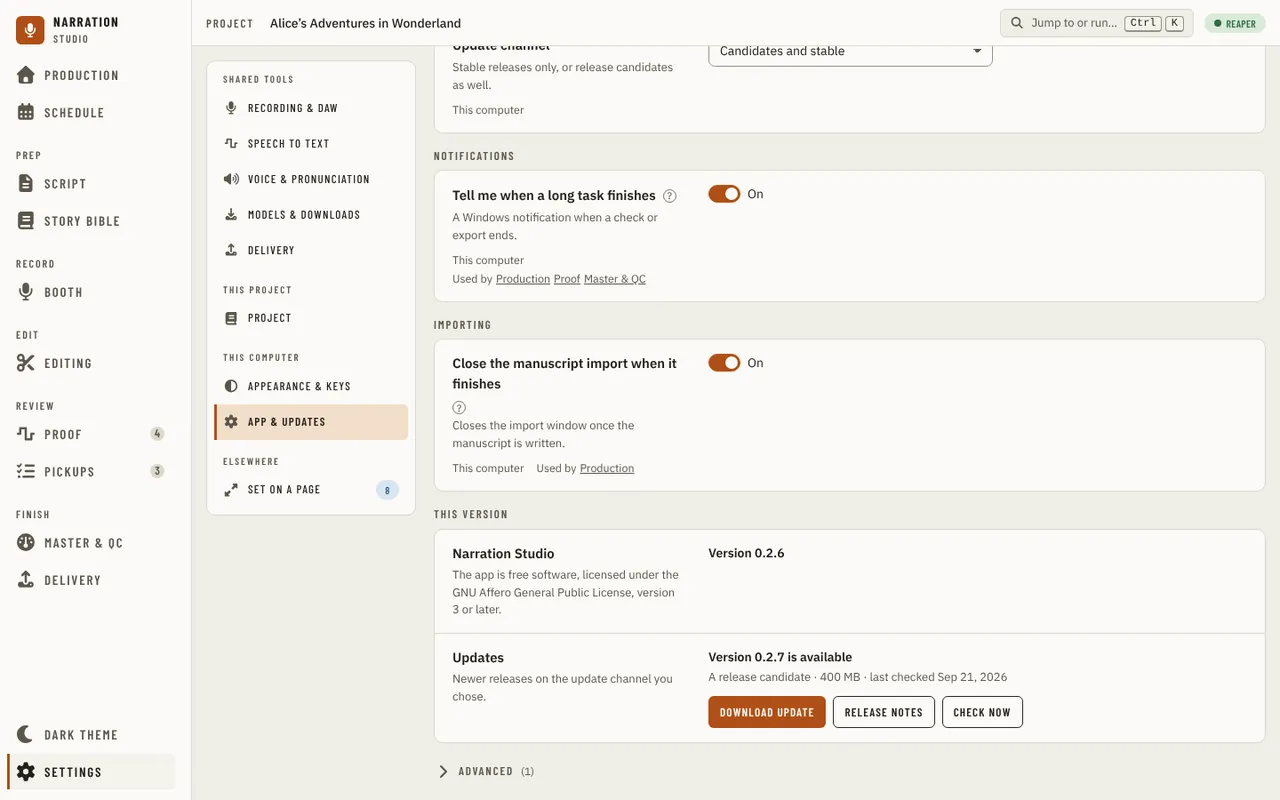
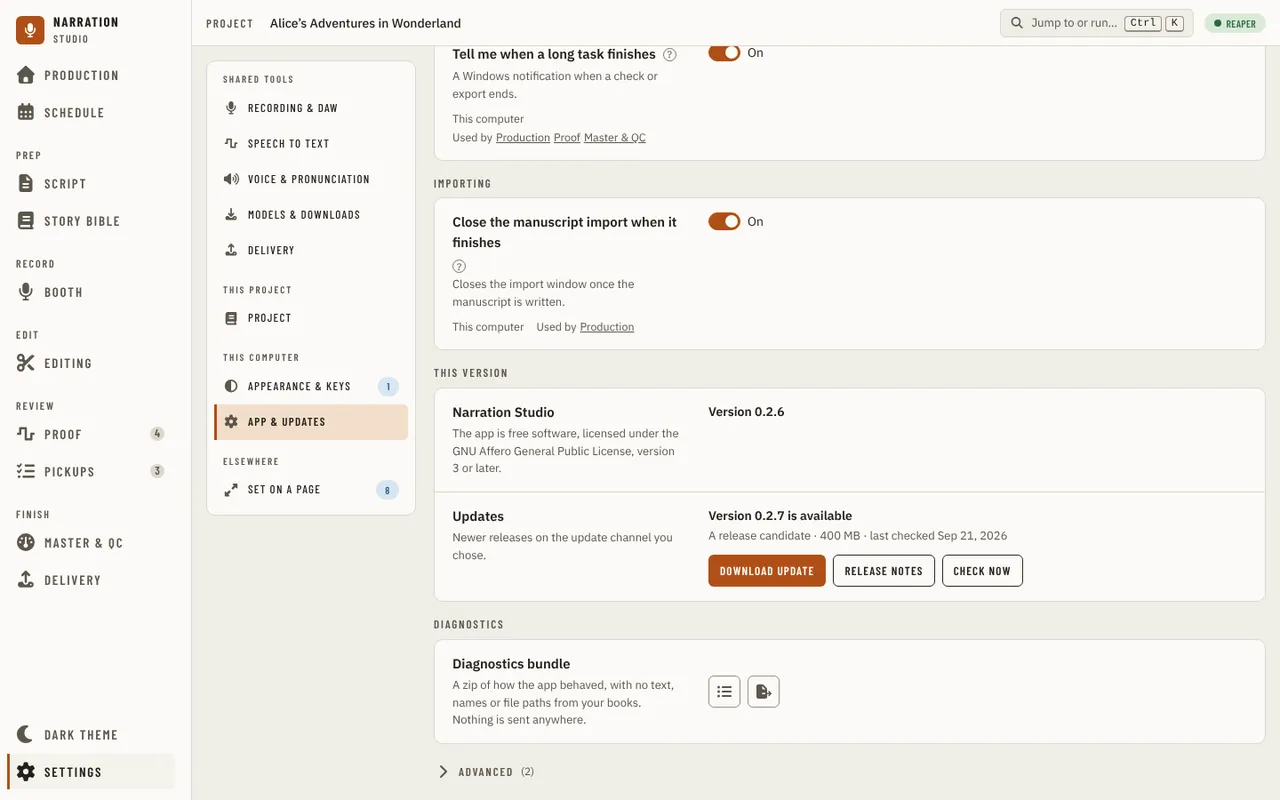
feat(ui): diagnostics bundle preview and save in settings (Refs #1827)
Claude-Session: https://claude.ai/code/session_01EBTykh56yy7MkSx2gnGY1F

diff --git a/src/studio/ui/src/components/settings/controls/DiagnosticsSection.tsx b/src/studio/ui/src/components/settings/controls/DiagnosticsSection.tsx
@@ -1,0 +1,124 @@
+import { useState } from 'react';
+import { useApi } from '../../../api/ApiContext';
+import { apiErrorMessage } from '../../../api/errorMessage';
+import type { DiagnosticsPreview } from '../../../api/contracts/system';
+import { useOverlay } from '../../../overlay/OverlayProvider';
+import { Dialog } from '../../primitives/Dialog';
+import { IconButton } from '../../primitives/IconButton';
+import { Panel } from '../../primitives/Panel';
+import { SectionLabel } from '../../primitives/SectionLabel';
+
+// The settings row's two columns (row/SettingRowView.tsx), as AboutSection's rows use.
+const ROW =
+  'grid gap-x-8 gap-y-1.5 border-t border-[var(--border)] px-5 py-4 first:border-t-0 @min-[761px]:grid-cols-[12rem_minmax(0,1fr)] @min-[860px]:grid-cols-[minmax(12rem,16rem)_minmax(0,1fr)]';
+
+const kilobytes = (bytes: number): string => `${Math.max(1, Math.round(bytes / 1024))} KB`;
+
+/**
+ * Diagnostics under App & updates: look at what a diagnostics bundle would hold, then save it as a zip in a folder the narrator picks. The
+ * path is copied to the clipboard. Nothing is sent anywhere; the narrator attaches the file to an issue by hand. The preview is a
+ * dialog, so a long list of files never moves the page.
+ */
+export function DiagnosticsSection() {
+  const api = useApi();
+  const overlay = useOverlay();
+  const [preview, setPreview] = useState<DiagnosticsPreview>();
+  const [busy, setBusy] = useState<'preview' | 'save' | ''>('');
+
+  const showPreview = async () => {
+    setBusy('preview');
+    try {
+      setPreview(await api.systemDiagnosticsPreview());
+    } catch (failure) {
+      overlay.toast(apiErrorMessage(failure), { tone: 'error' });
+    } finally {
+      setBusy('');
+    }
+  };
+
+  const save = async () => {
+    setBusy('save');
+    try {
+      const { path } = await api.systemSaveDiagnostics();
+      if (!path) return; // the narrator closed the folder picker
+      let copied = false;
+      try {
+        await navigator.clipboard.writeText(path);
+        copied = true;
+      } catch {
+        // The clipboard may be unavailable; the toast still says where the file is.
+      }
+      overlay.toast(copied ? `Saved to ${path}. The path is copied.` : `Saved to ${path}.`);
+    } catch (failure) {
+      overlay.toast(apiErrorMessage(failure), { tone: 'error' });
+    } finally {
+      setBusy('');
+    }
+  };
+
+  return (
+    <section aria-label="Diagnostics" className="flex flex-col">
+      <SectionLabel as="h3" className="mb-1.5">
+        Diagnostics
+      </SectionLabel>
+      <Panel flush>
+        <div className={ROW} data-about="diagnostics">
+          <div className="flex min-w-0 flex-col gap-[3px]">
+            <b className="text-[0.9375rem] font-semibold">Diagnostics bundle</b>
+            <span className="max-w-[60ch] text-[0.8125rem] text-[var(--text-muted)]">
+              A zip of how the app behaved, with no text, names or file paths from your books. Nothing is sent anywhere.
+            </span>
+          </div>
+          <div className="flex items-center gap-2">
+            <IconButton action="list" label="Preview the diagnostics bundle" pending={busy === 'preview'} onClick={() => void showPreview()} />
+            <IconButton action="export" label="Save the diagnostics bundle" pending={busy === 'save'} onClick={() => void save()} />
+          </div>
+        </div>
+      </Panel>
+      {preview && (
+        <Dialog
+          title="Diagnostics bundle"
+          size="wide"
+          dismissOnOutsidePress
+          onClose={() => setPreview(undefined)}
+          actions={<IconButton action="export" label="Save the diagnostics bundle" pending={busy === 'save'} onClick={() => void save()} />}
+        >
+          <div className="flex max-h-[60dvh] flex-col gap-4 overflow-y-auto text-[0.875rem]">
+            <section aria-label="Included" className="flex flex-col gap-1.5">
+              <SectionLabel as="p">Included</SectionLabel>
+              {preview.files.length === 0 ? (
+                <p className="m-0 text-[var(--text-muted)]">Nothing has been recorded yet.</p>
+              ) : (
+                <ul className="m-0 flex list-none flex-col gap-1 p-0">
+                  {preview.files.map((file) => (
+                    <li key={file.name} className="flex flex-wrap justify-between gap-x-4">
+                      <span>
+                        <b className="font-semibold">{file.name}</b> <span className="text-[var(--text-muted)]">{file.source}</span>
+                      </span>
+                      <span className="text-[var(--text-muted)]">
+                        {file.lines} lines, {kilobytes(file.bytes)}
+                      </span>
+                    </li>
+                  ))}
+                </ul>
+              )}
+            </section>
+            <section aria-label="Left out" className="flex flex-col gap-1.5">
+              <SectionLabel as="p">Left out</SectionLabel>
+              <ul className="m-0 flex list-none flex-col gap-1 p-0">
+                {preview.excluded.map((item) => (
+                  <li key={item.name}>
+                    <b className="font-semibold">{item.name}</b> <span className="text-[var(--text-muted)]">{item.reason}</span>
+                  </li>
+                ))}
+              </ul>
+            </section>
+            <p className="m-0 text-[var(--text-muted)]">
+              Leak check: {preview.leakCheck.linesDropped} {preview.leakCheck.linesDropped === 1 ? 'line' : 'lines'} dropped for naming you or your project.
+            </p>
+          </div>
+        </Dialog>
+      )}
+    </section>
+  );
+}

diff --git a/src/studio/ui/src/components/settings/controls/DiagnosticsSection.test.tsx b/src/studio/ui/src/components/settings/controls/DiagnosticsSection.test.tsx
@@ -1,0 +1,83 @@
+// @vitest-environment jsdom
+import { cleanup, fireEvent, render, screen, waitFor } from '@testing-library/react';
+import { afterEach, describe, expect, it, vi } from 'vitest';
+import { ApiProvider } from '../../../api/ApiContext';
+import { createMockApi } from '../../../api/mockApi';
+import { OverlayProvider } from '../../../overlay/OverlayProvider';
+import { createOverlayService } from '../../../overlay/overlayService';
+import type { NarrationApi } from '../../../types';
+import { DiagnosticsSection } from './DiagnosticsSection';
+
+afterEach(cleanup);
+
+function renderSection(overrides: Partial<NarrationApi> = {}) {
+  const service = createOverlayService();
+  const toast = vi.spyOn(service, 'toast');
+  render(
+    <ApiProvider api={createMockApi(overrides)}>
+      <OverlayProvider service={service}>
+        <DiagnosticsSection />
+      </OverlayProvider>
+    </ApiProvider>,
+  );
+  return toast;
+}
+
+describe('DiagnosticsSection', () => {
+  it('previews what the bundle holds and what it leaves out, and writes nothing', async () => {
+    const save = vi.fn(async () => ({ path: '' }));
+    renderSection({ systemSaveDiagnostics: save });
+    fireEvent.click(screen.getByRole('button', { name: 'Preview the diagnostics bundle' }));
+    const dialog = await screen.findByRole('dialog', { name: 'Diagnostics bundle' });
+    expect(dialog.textContent).toContain('trace.jsonl');
+    expect(dialog.textContent).toContain('sidecar stderr');
+    expect(dialog.textContent).toMatch(/0 lines dropped/);
+    expect(save).not.toHaveBeenCalled();
+  });
+
+  it('says what an empty bundle means when nothing was recorded', async () => {
+    renderSection({
+      systemDiagnosticsPreview: async () => ({
+        format: 1,
+        createdAt: '2026-09-26T12:00:00Z',
+        appVersion: '0.0.0-dev',
+        redactionVersion: 1,
+        traceEnabled: false,
+        files: [],
+        excluded: [],
+        leakCheck: { terms: 0, linesDropped: 1 },
+        note: '',
+      }),
+    });
+    fireEvent.click(screen.getByRole('button', { name: 'Preview the diagnostics bundle' }));
+    const dialog = await screen.findByRole('dialog', { name: 'Diagnostics bundle' });
+    expect(dialog.textContent).toContain('Nothing has been recorded yet.');
+    expect(dialog.textContent).toMatch(/1 line dropped/);
+  });
+
+  it('saves, copies the path and says where the file is', async () => {
+    const writeText = vi.fn(async () => undefined);
+    Object.defineProperty(navigator, 'clipboard', { value: { writeText }, configurable: true });
+    const toast = renderSection();
+    fireEvent.click(screen.getByRole('button', { name: 'Save the diagnostics bundle' }));
+    await waitFor(() => expect(writeText).toHaveBeenCalledWith('C:/Users/narrator/Documents/diagnostics-20260926T120000.zip'));
+    expect(toast).toHaveBeenCalledWith(expect.stringContaining('The path is copied'));
+  });
+
+  it('does nothing when the folder picker is closed', async () => {
+    const toast = renderSection({ systemSaveDiagnostics: async () => ({ path: '' }) });
+    fireEvent.click(screen.getByRole('button', { name: 'Save the diagnostics bundle' }));
+    await waitFor(() => expect(screen.getByRole('button', { name: 'Save the diagnostics bundle' }).getAttribute('aria-busy')).not.toBe('true'));
+    expect(toast).not.toHaveBeenCalled();
+  });
+
+  it('shows a failed save as an error toast', async () => {
+    const toast = renderSection({
+      systemSaveDiagnostics: async () => {
+        throw new Error('disk full');
+      },
+    });
+    fireEvent.click(screen.getByRole('button', { name: 'Save the diagnostics bundle' }));
+    await waitFor(() => expect(toast).toHaveBeenCalledWith(expect.stringContaining('disk full'), { tone: 'error' }));
+  });
+});

diff --git a/src/studio/ui/src/components/settings/page/SettingsPage.tsx b/src/studio/ui/src/components/settings/page/SettingsPage.tsx
@@ -16,6 +16,7 @@ import { SettingsStoreProvider, useSettingsStore } from '../data/SettingsStore';
 import { isAnyChanged, isBrowserChanged, overrideValue } from '../data/values';
 import { AssetsStoreProvider } from '../models/AssetsStore';
 import { AboutSection } from '../controls/AboutSection';
+import { DiagnosticsSection } from '../controls/DiagnosticsSection';
 import { CATEGORIES, categoryLabel } from '../registry/categories';
 import { PAGE_SETTINGS } from '../registry/pageSettings';
 import { ROWS } from '../registry/rows';
@@ -251,7 +252,14 @@ function Body({ initialCategory, cameFrom }: { initialCategory?: string; cameFro
             onToggleAdvanced={() => setAdvanced((current) => ({ ...current, [cat]: !current[cat] }))}
             onReset={() => void resetCategory(categoryRows(cat), store)}
             lit={lit}
-            extra={cat === 'app' ? <AboutSection /> : undefined}
+            extra={
+              cat === 'app' ? (
+                <>
+                  <AboutSection />
+                  <DiagnosticsSection />
+                </>
+              ) : undefined
+            }
           />
         )}
       </fieldset>

diff --git a/src/studio/ui/tests/visual/drivers/settings.ts b/src/studio/ui/tests/visual/drivers/settings.ts
@@ -407,6 +407,12 @@ export const settingsDrivers: Record<string, Driver> = {
     await openUpdates(page, 'available');
     await page.getByText('Version 0.2.7 is available').waitFor();
   },
+  'diagnostics-preview': async (page) => {
+    await openSettings(page, 'App & updates');
+    await page.getByRole('region', { name: 'Diagnostics' }).evaluate((panel) => panel.scrollIntoView({ block: 'start' }));
+    await page.getByRole('button', { name: 'Preview the diagnostics bundle' }).click();
+    await page.getByRole('dialog', { name: 'Diagnostics bundle' }).waitFor();
+  },
   'about-download-confirm': async (page) => {
     await openUpdates(page, 'available');
     await page.getByRole('button', { name: 'Download update' }).click();

diff --git a/src/studio/ui/tests/visual/prose/prose-inventory.ts b/src/studio/ui/tests/visual/prose/prose-inventory.ts
@@ -520,6 +520,16 @@ export const PROSE_INVENTORY: ProseEntry[] = [
     class: 'state',
   },
   {
+    file: 'components/settings/controls/DiagnosticsSection.tsx',
+    text: 'A zip of how the app behaved, with no text, names or file paths from your books. Nothing is sent anywhere.',
+    class: 'state',
+  },
+  {
+    file: 'components/settings/controls/DiagnosticsSection.tsx',
+    text: 'Leak check: … … dropped for naming you or your project.',
+    class: 'state',
+  },
+  {
     file: 'components/settings/controls/AboutSection.tsx',
     text: 'The app is free software, licensed under the GNU Affero General Public License, version 3 or later.',
     class: 'state',

diff --git a/src/studio/ui/tests/visual/catalog/settings.ts b/src/studio/ui/tests/visual/catalog/settings.ts
@@ -391,6 +391,12 @@ export const settingsStates: StateEntry[] = [
   },
   {
     page: 'settings',
+    state: 'diagnostics-preview',
+    description: 'Settings, App & updates: the diagnostics bundle preview dialog, with the files it holds, what it leaves out and the leak check',
+    ...REFLOW,
+  },
+  {
+    page: 'settings',
     state: 'about-download-confirm',
     description: 'Settings, App & updates: the confirm before an update is downloaded (?mockUpdate=available)',
     ...REFLOW,

diff --git a/src/studio/ui/tests/visual/overlays/settings.ts b/src/studio/ui/tests/visual/overlays/settings.ts
@@ -4,6 +4,7 @@ import { fromState, type OverlayCase } from '../helpers/overlayGuardFor';
 export const settingsCases: OverlayCase[] = [
   fromState('settings', 'marks-dialog'),
   fromState('settings', 'delivery-profile-editor'),
+  fromState('settings', 'diagnostics-preview'),
   fromState('settings', 'about-download-confirm'),
   fromState('settings', 'about-download-progress'),
   fromState('settings', 'about-install-confirm'),

diff --git a/src/studio/ui/src/api/unwiredBindings.test.ts b/src/studio/ui/src/api/unwiredBindings.test.ts
@@ -43,8 +43,6 @@ const UNWIRED = [
   'seriesSave',
   'subscribeDawProjectState',
   'subscribeRecorderLevel',
-  'systemDiagnosticsPreview',
-  'systemSaveDiagnostics',
   'systemOpenLogFolder',
   'takeComparisonCancel',
   'takeComparisonStart',

diff --git a/docs/guides/using-the-app/settings.md b/docs/guides/using-the-app/settings.md
@@ -285,6 +285,18 @@ replacing the manuscript keeps it; if its lines are gone, the panel says so and 
 
 **Check for updates on startup**, **Update channel**, **Tell me when a long task finishes** (a Windows notification when a long job ends while the app is not in front; on by default) and, under Advanced, **Debug logging**, which writes the reasons behind the app's decisions to the run log (turn it on when asked to send a log), and **Activity trace**, which records how the app behaved (the DAW connection, tool runs, crashes it survived) to `logs/trace.jsonl` and never your text, names or file paths. A build run from source has the trace on. **This version** follows them (see [About and updates](#about-and-updates)).
 
+### Diagnostics
+
+Under **This version**, the **Diagnostics** section has one row, **Diagnostics bundle**, with two icon buttons. **Preview the
+diagnostics bundle** opens a window that lists the files the bundle would hold, what it leaves out and why (sidecar
+output, the host log and the REAPER bridge's log are not included), and how many lines the leak check dropped for naming
+you or your project. It writes nothing. **Save the diagnostics bundle** asks for a folder, saves one zip there and copies its path;
+attach the zip to a GitHub issue yourself, since the app sends nothing. The bundle holds how the app behaved (screens,
+tool runs, the DAW connection, failures) and never your text, names or file paths. The **Activity trace** row above records
+it to disk; with it off, the bundle holds only what the app kept in memory since it started.
+
+![Settings - the diagnostics bundle preview](../../images/ui/settings-diagnostics-preview.webp)
+
 ### About and updates
 
 Under the rows of **App & updates**, the **This version** section has two rows: the version of the app you are running,
